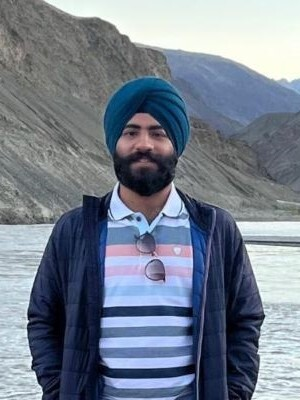
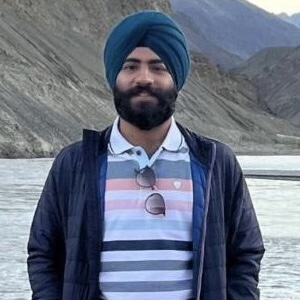
fixed issues

diff --git a/adapt/people.html b/adapt/people.html
@@ -349,7 +349,7 @@
           <div class="col">
             <a href="https://www.linkedin.com/in/alex-broihier88/" target="_blank" rel="noopener noreferrer" class="card-link-wrapper">
               <div class="card person-card h-100 shadow-sm" id="person-card">
-                <img src="members/alex.jpeg" loading="lazy" class="card-img-top" alt="Alex Broihier">
+                <img src="members/alex.jpg" loading="lazy" class="card-img-top" alt="Alex Broihier">
                 <div class="card-body d-flex flex-column justify-content-between">
                   <div>
                     <h5 class="card-title mb-2">
@@ -400,7 +400,8 @@
                   <div>
                     <h5 class="card-title mb-2">
                       <div>Dhruv</div>
-                      <div>Sundararaman</div>
+                      <div>Sundararam</div>
+                      <!-- <div>Sundararam</div> -->
                     </h5>
                     <!-- <p class="mb-2 card-label"><strong>Research Areas:</strong></p>
                     <ul class="mb-3 ps-3">
@@ -464,7 +465,7 @@
           <div class="col">
             <a href="https://www.linkedin.com/in/kaustubh-khulbe-b97320208/" target="_blank" rel="noopener noreferrer" class="card-link-wrapper">
               <div class="card person-card h-100 shadow-sm" id="person-card">
-                <img src="members/khulbe.jpeg" loading="lazy" class="card-img-top" alt="Kaustubh Khulbe">
+                <img src="members/khulbe.jpg" loading="lazy" class="card-img-top" alt="Kaustubh Khulbe">
                 <div class="card-body d-flex flex-column justify-content-between">
                   <div>
                     <h5 class="card-title mb-2">
@@ -510,7 +511,7 @@
           <div class="col">
             <a href="https://www.linkedin.com/in/max-gendeh/" target="_blank" rel="noopener noreferrer" class="card-link-wrapper">
               <div class="card person-card h-100 shadow-sm" id="person-card">
-                <img src="members/max.jpeg" loading="lazy" class="card-img-top" alt="Max Gendeh">
+                <img src="members/max.jpg" loading="lazy" class="card-img-top" alt="Max Gendeh">
                 <div class="card-body d-flex flex-column justify-content-between">
                   <div>
                     <h5 class="card-title mb-2">
@@ -533,7 +534,7 @@
           <div class="col">
             <a href="https://www.linkedin.com/in/nikhiljayakumar-/" target="_blank" rel="noopener noreferrer" class="card-link-wrapper">
               <div class="card person-card h-100 shadow-sm" id="person-card">
-                <img src="members/nikhil.jpeg" loading="lazy" class="card-img-top" alt="Nikhil Jayakumar">
+                <img src="members/nikhil.jpg" loading="lazy" class="card-img-top" alt="Nikhil Jayakumar">
                 <div class="card-body d-flex flex-column justify-content-between">
                   <div>
                     <h5 class="card-title mb-2">
@@ -556,7 +557,7 @@
           <div class="col">
             <a href="https://github.com/singhrayan" target="_blank" rel="noopener noreferrer" class="card-link-wrapper">
               <div class="card person-card h-100 shadow-sm" id="person-card">
-                <img src="members/rayan.jpeg" loading="lazy" class="card-img-top" alt="Rayan Singh">
+                <img src="members/rayan.jpg" loading="lazy" class="card-img-top" alt="Rayan Singh">
                 <div class="card-body d-flex flex-column justify-content-between">
                   <div>
                     <h5 class="card-title mb-2">
@@ -612,7 +613,7 @@
           <div class="col">
             <a href="https://www.linkedin.com/in/yufengwang05/" target="_blank" rel="noopener noreferrer" class="card-link-wrapper">
               <div class="card person-card h-100 shadow-sm" id="person-card">
-                <img src="members/yufeng.jpeg" loading="lazy" class="card-img-top" alt="Yufeng Wang">
+                <img src="members/yufeng.jpg" loading="lazy" class="card-img-top" alt="Yufeng Wang">
                 <div class="card-body d-flex flex-column justify-content-between">
                   <div>
                     <h5 class="card-title mb-2">
@@ -631,8 +632,11 @@
                       <a href="https://www.ideals.illinois.edu/items/127532" target="_blank" class="card-link">A framework for programming temporal gnns</a>
                     </p> -->
 
-                    <p class="mb-2 card-label"><strong>Now at:</strong></p>
-                    <p class="card-position mb-3 ps-3">Compiler Engineer at Tesla</p>
+                    <p class="mb-2 card-label"><strong>Now:</strong></p>
+                    <p class="card-position mb-3">
+                      <div>Compiler Engineer</div>
+                      <div>@ Tesla</div>
+                    </p>
                   </div>
 
                   <div class="mt-auto">
@@ -664,8 +668,11 @@
                       <a href="" target="_blank" class="card-link">Verifying XLA tensor rewrite rules</a>
                     </p> -->
 
-                    <p class="mb-2 card-label"><strong>Now at:</strong></p>
-                    <p class="card-position mb-3 ps-3">MS Student at Harvard</p>
+                    <p class="mb-2 card-label"><strong>Now:</strong></p>
+                    <p class="card-position mb-3">
+                      <div>Masters Student</div>
+                      <div>@ Harvard</div>
+                    </p>
                   </div>
 
                   <div class="mt-auto">
@@ -697,8 +704,11 @@
                       <a href="" target="_blank" class="card-link">Code generation for sparse attention</a>
                     </p>
  -->
-                    <p class="mb-2 card-label"><strong>Now at:</strong></p>
-                    <p class="card-position mb-3 ps-3">PhD Student at UIUC</p>
+                    <p class="mb-2 card-label"><strong>Now:</strong></p>
+                    <p class="card-position mb-3">
+                      <div>PhD Student</div>
+                      <div>@ UIUC</div>
+                    </p>
                   </div>
 
                   <div class="mt-auto">
@@ -730,8 +740,11 @@
                       <a href="" target="_blank" rel="noopener noreferrer" class="card-link">Optimizations for t-gnns</a>
                     </p> -->
 
-                    <p class="mb-2 card-label"><strong>Now at:</strong></p>
-                    <p class="card-position mb-3 ps-3">PhD Student at UIUC</p>
+                    <p class="mb-2 card-label"><strong>Now:</strong></p>
+                    <p class="card-position mb-3">
+                      <div>PhD Student</div>
+                      <div>@ UIUC</div>
+                    </p>
                   </div>
 
                   <div class="mt-auto">
@@ -763,8 +776,11 @@
                       <a href="" target="_blank" class="card-link">Optimizing convolution computations</a>
                     </p> -->
 
-                    <p class="mb-2 card-label"><strong>Now at:</strong></p>
-                    <p class="card-position mb-3 ps-3">Compiler Engineer at NVIDIA</p>
+                    <p class="mb-2 card-label"><strong>Now:</strong></p>
+                    <p class="card-position mb-3">
+                      <div>Compiler Engineer</div>
+                      <div>@ NVIDIA</div>
+                    </p>
                   </div>
 
                   <div class="mt-auto">
@@ -777,7 +793,7 @@
           <div class="col">
             <a href="https://www.linkedin.com/in/hao-guo-396566279/" target="_blank" rel="noopener noreferrer" class="card-link-wrapper">
               <div class="card person-card h-100 shadow-sm" id="person-card">
-                <img src="members/hao.jpeg" loading="lazy" class="card-img-top" alt="Hao Guo">
+                <img src="members/hao.jpg" loading="lazy" class="card-img-top" alt="Hao Guo">
                 <div class="card-body d-flex flex-column justify-content-between">
                   <div>
                     <h5 class="card-title mb-2">
@@ -796,8 +812,11 @@
                       <a href="" target="_blank" class="card-link">GPU kernel optimizations</a>
                     </p> -->
 
-                    <p class="mb-2 card-label"><strong>Now at:</strong></p>
-                    <p class="card-position mb-3 ps-3">Compiler Engineer at NVIDIA</p>
+                    <p class="mb-2 card-label"><strong>Now:</strong></p>
+                    <p class="card-position mb-3">
+                      <div>Compiler Engineer</div>
+                      <div>@ NVIDIA</div>
+                    </p>
                   </div>
 
                   <div class="mt-auto">
